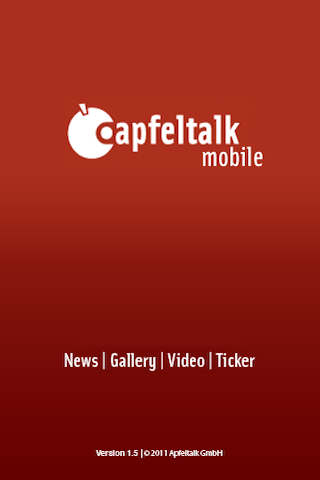
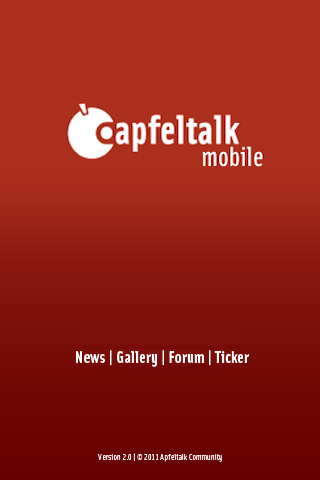
Finished the Splashscreens for v2.0,  finished the impressum in RootViewController.m, Prepared MainView.xib for forum integration, changed the Version to v2.0

Changed region(s): [[0.1875, 0.7188, 0.8125, 0.7812], [0.2812, 0.9375, 0.7188, 0.9688]]

diff --git a/Classes/RootViewController.m b/Classes/RootViewController.m
@@ -49,7 +49,7 @@
 	[newsTable reloadData];
 	UIAlertView *alert = [[UIAlertView alloc]
 						  initWithTitle:@"Impressum"
-						  message:@"Diese App ist ein Community-Projekt und steht unter der Lizenz GPL v2. Entwickelt wurde sie mit freundlicher Unterstützung der Apfeltalk GmbH. \n\nDie Forenzugriffs-API stammt von Tapatalk. \n\n Weitere Informationen unter Einstellungen..."
+						  message:@"Diese App ist ein Community-Projekt und steht unter der Lizenz GPL v2. Entwickelt wurde sie mit freundlicher Unterstützung der Apfeltalk GmbH. \n\nDie Forenzugriffs-Schnittstelle stammt von Tapatalk. \n\n Liste der Entwickler unter Einstellungen..."
 						  delegate:self
 						  cancelButtonTitle:@"OK"
 						  otherButtonTitles:@"Kontakt"
